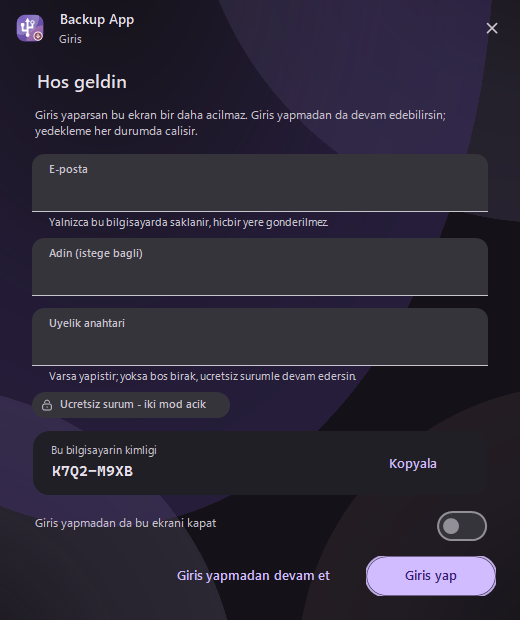
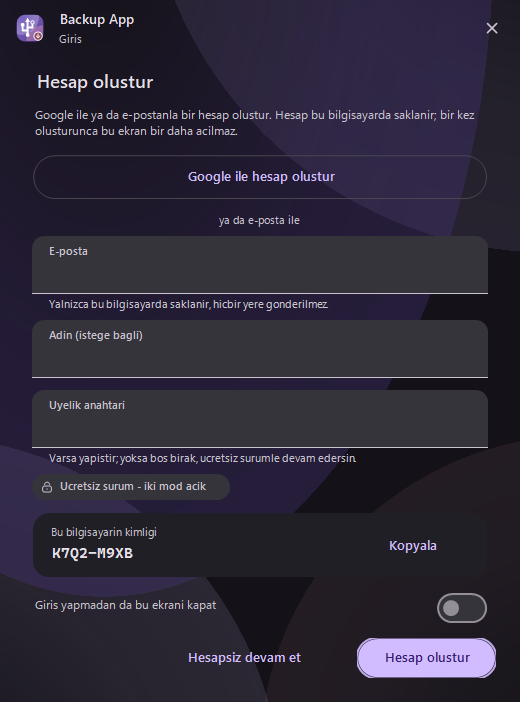
Hesap ekrani ve sol alt hesap satiri
Ekran goruntuleri yenilendi.

diff --git a/docs/index.html b/docs/index.html
@@ -597,11 +597,11 @@ footer { border-top:1px solid var(--outline-variant); padding:44px 0 60px; }
           Değişiklikler anında kaydedilir; “Kaydet” adımı yoktur.</figcaption>
       </figure>
       <figure>
-        <div class="ekran-cerceve"><img src="assets/ekran-giris.png" loading="lazy" width="520" height="620"
+        <div class="ekran-cerceve"><img src="assets/ekran-giris.png" loading="lazy" width="520" height="702"
           alt="Giriş ekranı" data-ekran="giris"></div>
-        <figcaption><b>Giriş.</b> Açılışta karşılar: e-posta, ad, üyelik anahtarı ve cihaz
-          kimliği. Bir kez giriş yaptıktan sonra bir daha çıkmaz — istersen hiç giriş
-          yapmadan da devam edebilirsin.</figcaption>
+        <figcaption><b>Hesap.</b> Açılışta Google ile ya da e-postanla hesap oluşturursun.
+          Bir kez oluşturduktan sonra bu ekran bir daha çıkmaz — istersen hiç hesap
+          açmadan da devam edebilirsin.</figcaption>
       </figure>
       <figure>
         <div class="ekran-cerceve"><img src="assets/ekran-cihaz-ekle.png" loading="lazy" width="640" height="846"
